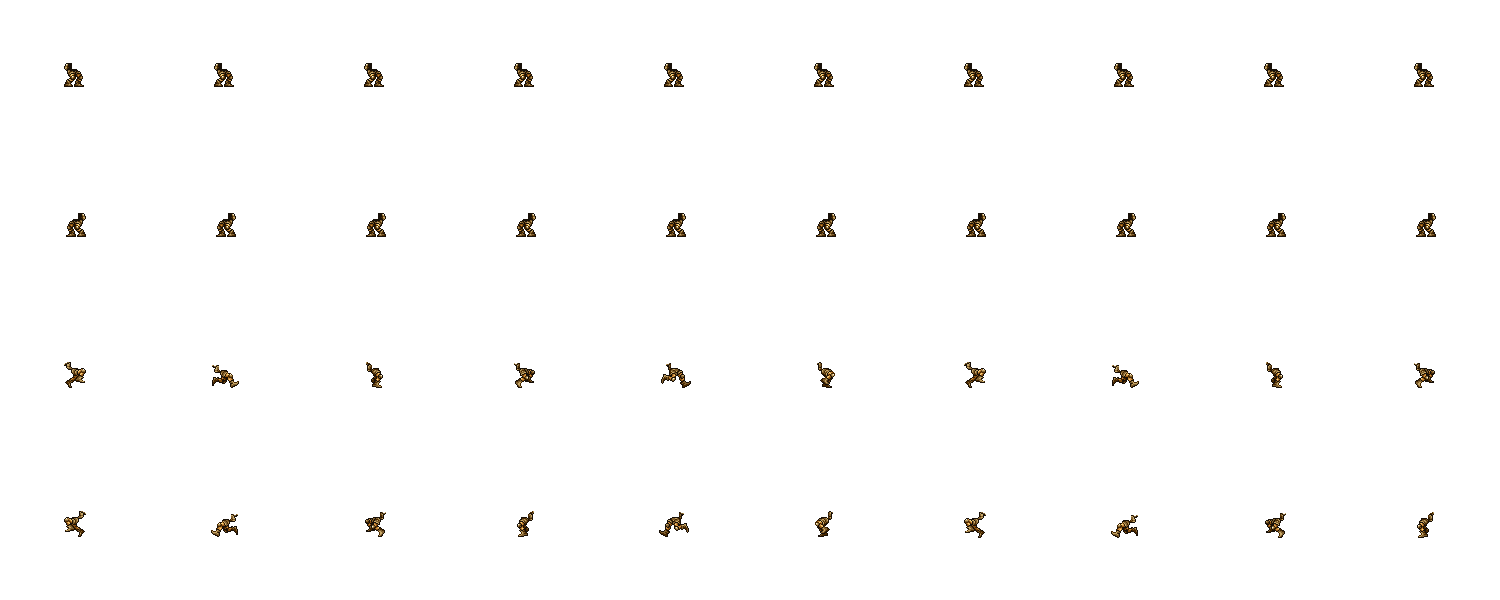
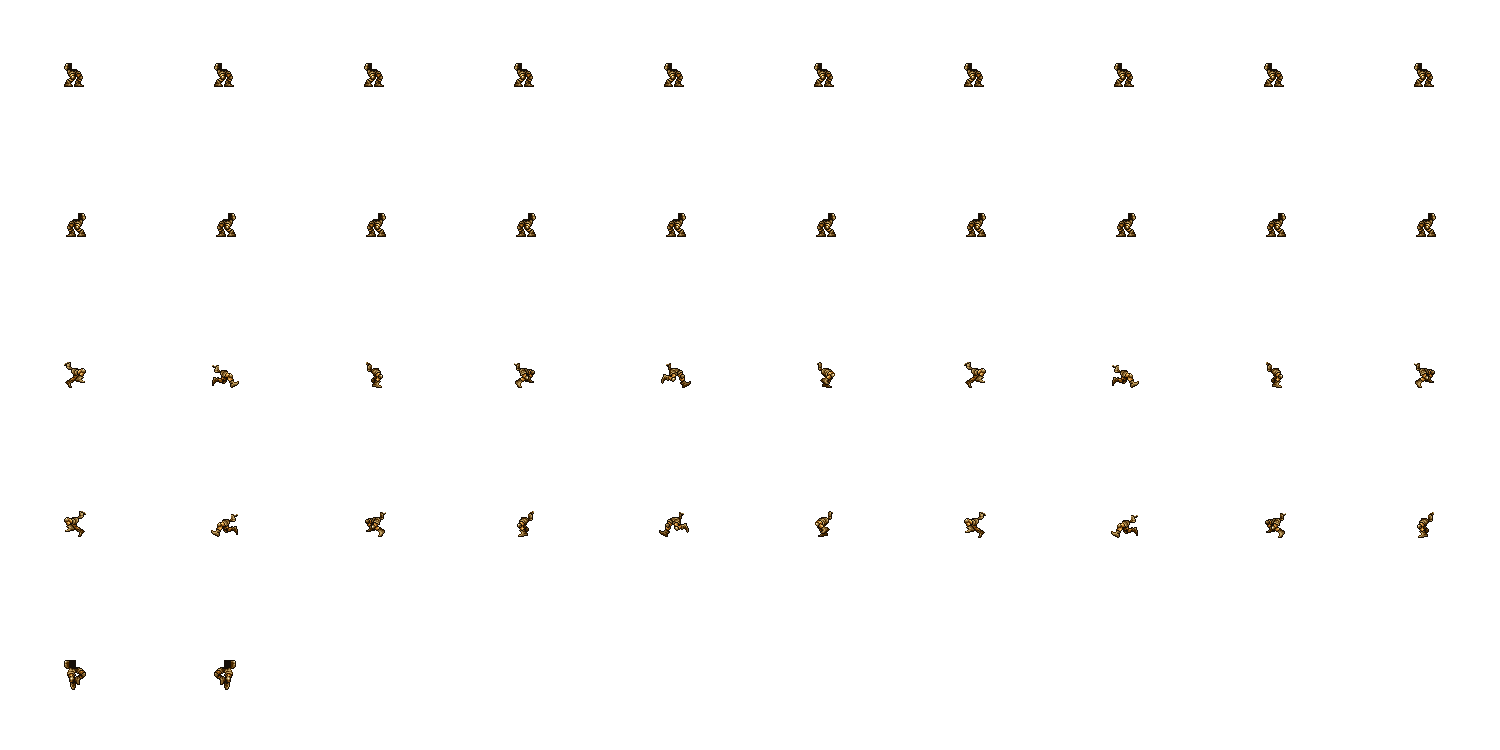
위로 총쏘기 구현

diff --git a/Term_Project/player.py b/Term_Project/player.py
@@ -13,11 +13,13 @@ class Player:
     BODY_LEFT_IDLE_ACTION = 3
     BODY_RIGHT_SHOOT_ACTION = 2
     BODY_LEFT_SHOOT_ACTION = 1
+    BODY_UP_SHOOT_ACTION = 5
 
-    LEG_RIGHT_IDLE_ACTION = 3
-    LEG_LEFT_IDLE_ACTION = 2
-    LEG_RIGHT_WALK_ACTION =1
-    LEG_LEFT_WALK_ACTION = 0
+    LEG_RIGHT_IDLE_ACTION = 4
+    LEG_LEFT_IDLE_ACTION = 3
+    LEG_RIGHT_WALK_ACTION =2
+    LEG_LEFT_WALK_ACTION = 1
+    LEG_JUMP_ACTION = 0
 
     #constructor
     def __init__(self):
@@ -26,14 +28,20 @@ class Player:
 
         self.body_fidx = 0
         self.leg_fidx = 0
-        self.ocha = 0
+        self.lxocha = 0
+        self.lyocha = 0
+        self.bxocha= 0
+        self.byocha = 0
         self.framespeed = 0
         self.temp = 0
+        self.tmp =0
+        self.dir = 0
 
         self.fireaction = False
         self.isLeftWalking = False
         self.isRightWalking = False
         self.isJump = False
+        self.isUpLook = False
 
         self.body_action = Player.BODY_RIGHT_IDLE_ACTION
         self.leg_action = Player.LEG_RIGHT_IDLE_ACTION
@@ -47,11 +55,11 @@ class Player:
     def draw(self):
         leg_sx = self.leg_fidx * 150
         leg_sy = self.leg_action * 150
-        self.leg_image.clip_draw(leg_sx, leg_sy, 150, 150, self.x - 5 + self.ocha, self.y - 28, 350, 350)
+        self.leg_image.clip_draw(leg_sx, leg_sy, 150, 150, self.x - 5 + self.lxocha, self.y - 28, 350, 350)
 
         body_sx = self.body_fidx * 150
         body_sy = self.body_action * 150
-        self.body_image.clip_draw(body_sx,body_sy,150,150,self.x,self.y,350,350)
+        self.body_image.clip_draw(body_sx,body_sy,150,150,self.x+self.bxocha,self.y + self.byocha,350,350)
 
     def update(self):
         global px
@@ -63,34 +71,61 @@ class Player:
             if self.fireaction == True:
                 self.body_action = Player.BODY_RIGHT_SHOOT_ACTION
             self.leg_action = Player.LEG_RIGHT_WALK_ACTION
-            self.ocha = 0
+            self.lxocha = 0
 
         if self.dx < 0:
             self.body_action = Player.BODY_LEFT_IDLE_ACTION
             if self.fireaction == True:
                 self.body_action = Player.BODY_LEFT_SHOOT_ACTION
             self.leg_action = Player.LEG_LEFT_WALK_ACTION
-            self.ocha = 10
+            self.lxocha = 10
 
         if self.isJump == True:
             if self.y <= 213:
+                self.leg_action = Player.LEG_JUMP_ACTION
                 self.y += 4
             if self.y > 213:
                 self.isJump = False
+
         if self.isJump == False and self.y > 125:
             self.y -= 4
+            if self.dir == 2:
+                self.leg_action = Player.LEG_RIGHT_IDLE_ACTION
+            if self.dir == 1:
+                self.leg_action = Player.LEG_LEFT_IDLE_ACTION
 
         px += self.dx
 
     def calframe(self):
         self.time += gfw.delta_time
         frame = self.time * 10
-        self.leg_fidx = int(frame) % 10
+
         if self.fireaction == False:
+            self.byocha = 0
+            self.bxocha = 0
             self.body_fidx = int(frame) % 10
 
         if self.fireaction == True:
             self.body_fidx = 5
+            if self.dir == 3 and self.tmp == 2:
+                self.bxocha = -5
+                self.byocha = 25
+                self.body_fidx = 0
+            elif self.dir == 3 and self.tmp == 1:
+                self.bxocha = 5
+                self.byocha = 25
+                self.body_fidx = 1
+
+        if self.isJump == False:
+            self.leg_fidx = int(frame) % 10
+        if self.isJump == True:
+            if self.dir == 2:
+                self.leg_fidx =0
+            if self.dir == 1:
+                self.leg_fidx =1
+
+
+
 
     # 움직임
     def moving(self):
@@ -100,35 +135,45 @@ class Player:
         self.isJump = True
 
 
-    def fire(self):
-        bullet = Bullet(self.x,self.y,self.leg_action)
+    def fire(self , dir):
+        bullet = Bullet(self.x,self.y,dir)
         Bullet.bullets.append(bullet)
 
     def tryfire(self):
-        self.fire()
         self.fireaction = True
 
-        if self.leg_action == Player.LEG_LEFT_IDLE_ACTION:
+        if self.dir == 1:
+
             self.body_action = Player.BODY_LEFT_SHOOT_ACTION
 
-        elif self.isRightWalking == True or self.leg_action == Player.LEG_RIGHT_IDLE_ACTION:
+        elif self.dir == 2:
+
             self.body_action = Player.BODY_RIGHT_SHOOT_ACTION
 
+        elif self.dir == 3:
 
+            self.body_action = Player.BODY_UP_SHOOT_ACTION
+
+
+
+        self.fire(self.dir)
 
     def handle_event(self, e):
         if e.type == SDL_KEYDOWN:
             if e.key == SDLK_LEFT:
+                self.dir = 1  # 왼쪽
                 self.dx -= 1
 
             if e.key == SDLK_RIGHT:
+                self.dir = 2  # 오른쪽
                 self.dx += 1
+
             if e.key == SDLK_UP:
-                pass
+                self.tmp = self.dir
+                self.dir = 3
             if e.key == SDLK_a:
                 self.temp = self.body_action
                 self.tryfire()
-
             if e.key == SDLK_s:
                 self.jump()
 
@@ -140,7 +185,8 @@ class Player:
             if e.key == SDLK_RIGHT:
                 self.dx -= 1
                 self.leg_action = Player.LEG_RIGHT_IDLE_ACTION
-
+            if e.key == SDLK_UP:
+                self.dir = self.tmp
             if e.key == SDLK_a:
                 self.fireaction = False
                 self.body_action = self.temp

diff --git a/Term_Project/bullet.py b/Term_Project/bullet.py
@@ -4,27 +4,34 @@ import gfw
 class Bullet:
     bullets = []
     def __init__(self, x,y,dir):
-        self.base_bullet_image = gfw.load_image('res/base_bullet.png')
-        self.baseR_bullet_image = gfw.load_image('res/base_bulletR.png')
+        self.base_bullet_image = gfw.load_image('res/base_bulletRIGHT.png')
+        self.baseR_bullet_image = gfw.load_image('res/base_bulletLEFT.png')
+        self.baseUP_bullet_image = gfw.load_image('res/base_bulletUP.png')
         self.x,self.y = x,y
         self.dir = dir
 
         # print('Radius = %d' % self.radius)
     def draw(self):
-        if self.dir == 1 or self.dir == 3:
-            self.base_bullet_image.clip_draw(0, 0, 150, 150, self.x + 20, self.y + 8, 350, 350)
-        elif self.dir == 0 or self.dir == 2:
-            self.baseR_bullet_image.clip_draw(0, 0, 150, 150, self.x + 20, self.y + 8, 350, 350)
+        if self.dir == 2:
+            self.base_bullet_image.clip_draw(0, 0, 150, 150, self.x + 30, self.y + 8, 350, 350)
+        elif self.dir == 1:
+            self.baseR_bullet_image.clip_draw(0, 0, 150, 150, self.x - 30, self.y + 8, 350, 350)
+        elif self.dir == 3:
+            self.baseUP_bullet_image.clip_draw(0, 0, 150, 150, self.x , self.y + 30, 350, 350)
 
     def update(self):
-        if self.dir == 1 or self.dir == 3:
-            self.x += 10
-        elif self.dir == 0 or self.dir == 2:
-            self.x -= 10
+        x,y = self.x,self.y
+        if self.dir == 2:
+            x += 10
+        elif self.dir == 1:
+            x -= 10
+        elif self.dir == 3:
+            y += 10
 
-        x = self.x
+        self.y = y
+        self.x = x
 
-        if x < -20 or x > get_canvas_width() + 20:
+        if x < -10 or x > get_canvas_width() + 10 or y > get_canvas_height() +10:
             Bullet.bullets.remove(self)
             print('Ball count - %d' % len(Bullet.bullets))
 
